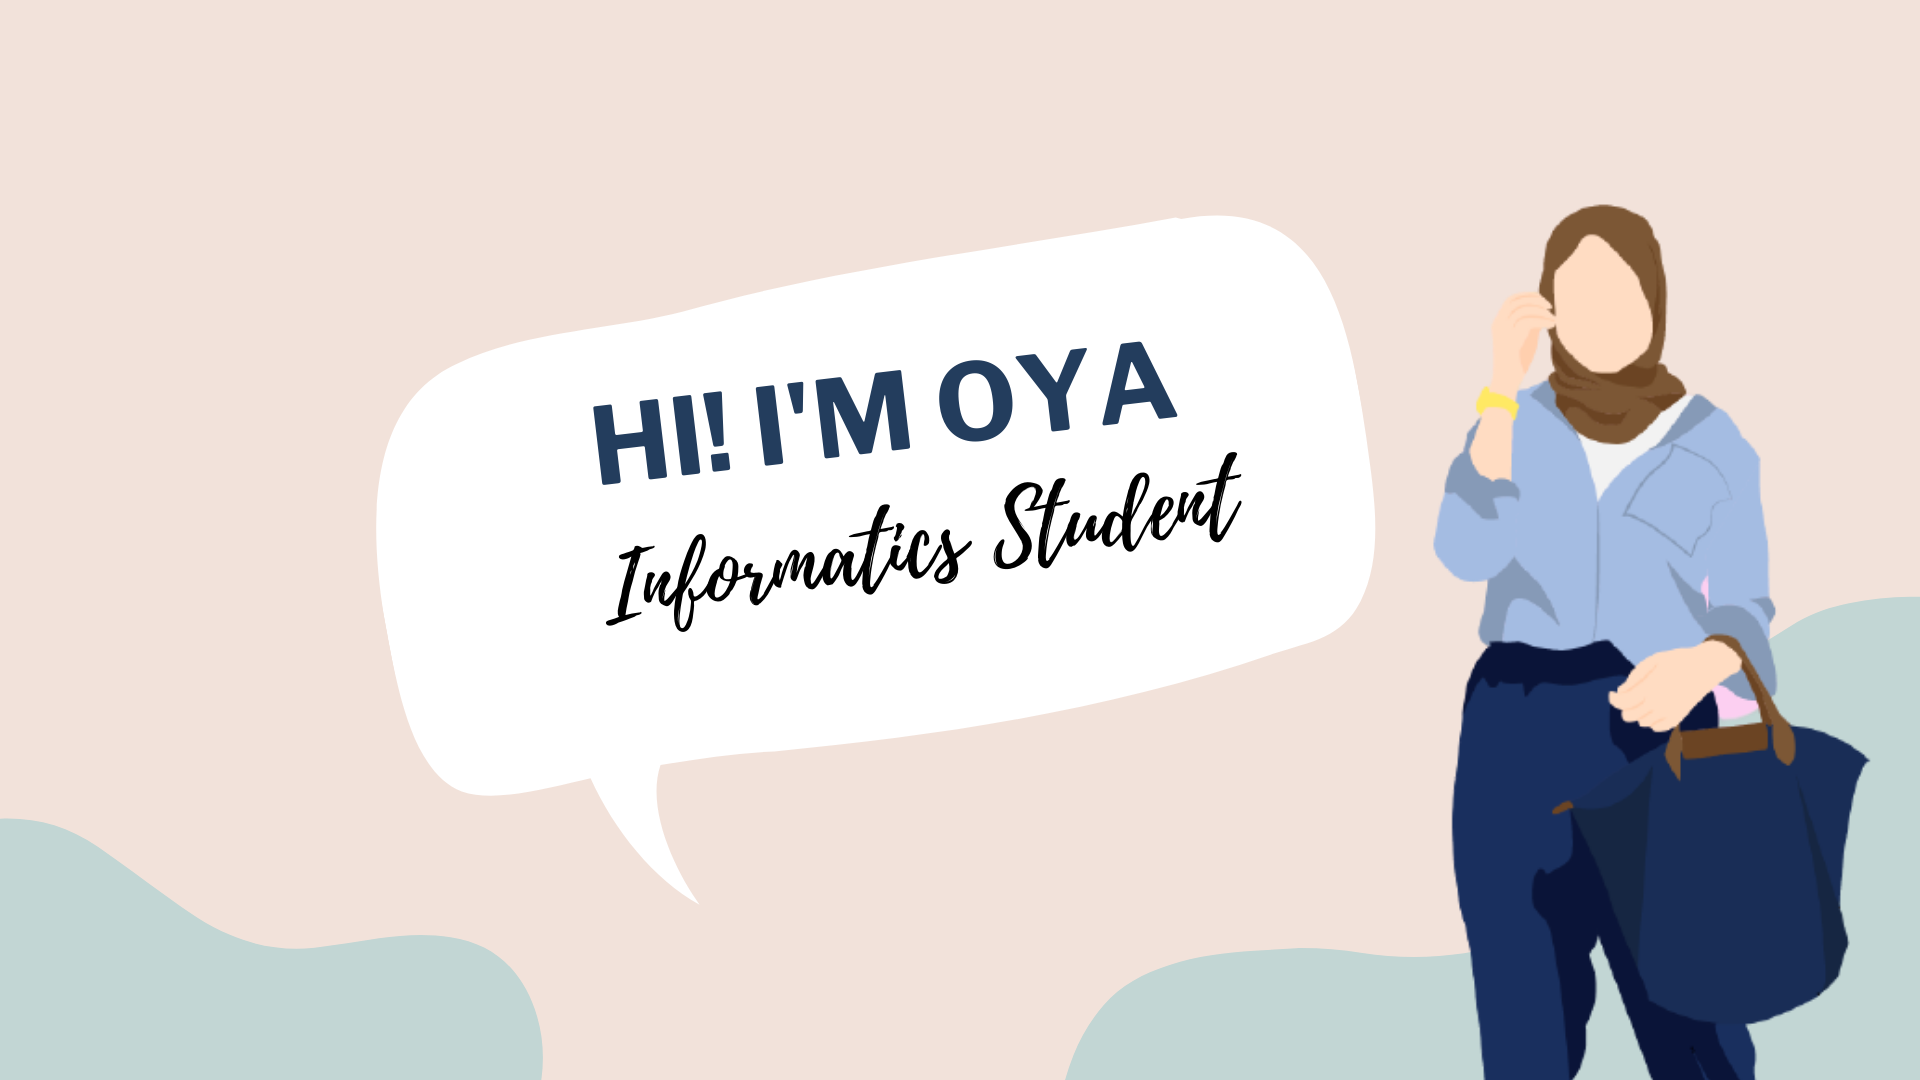
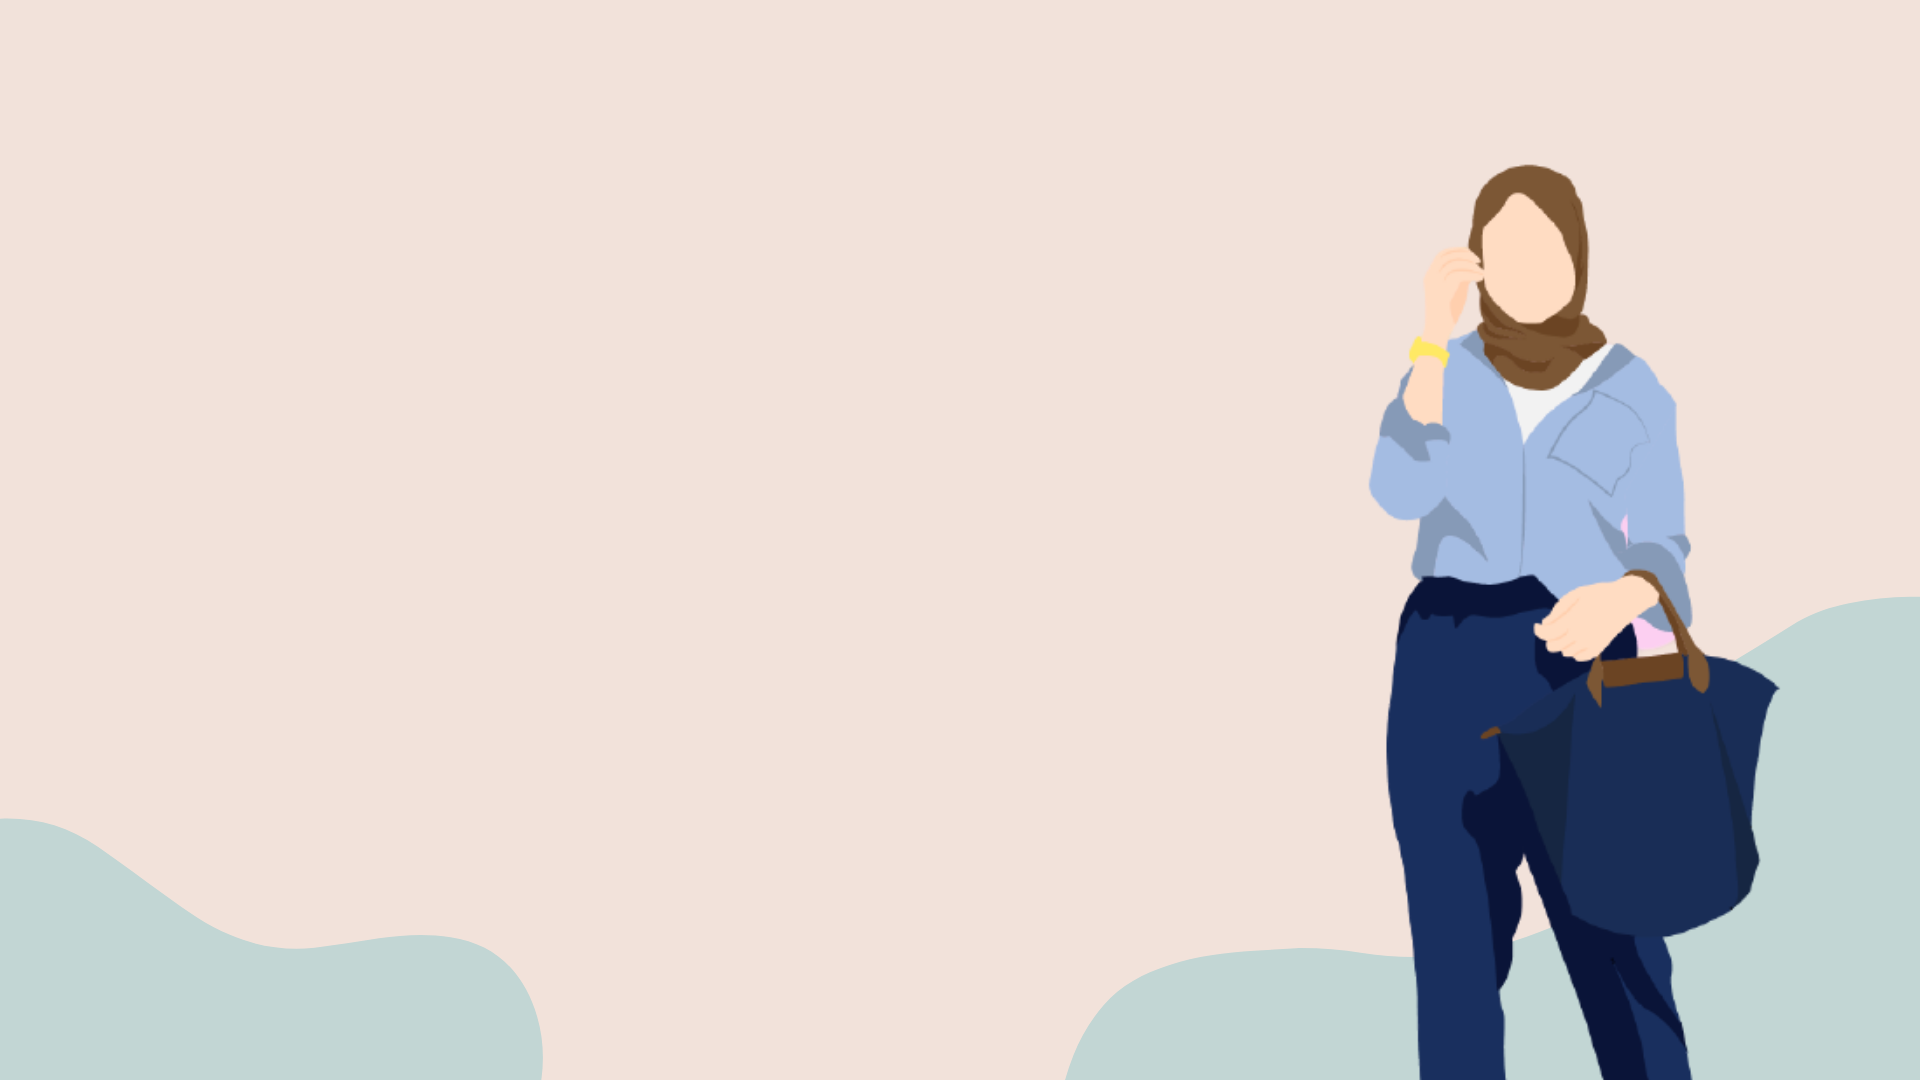
new portofolio

diff --git a/index.html b/index.html
@@ -8,6 +8,8 @@
     <link rel="stylesheet" href="style.css">
     <script src="https://kit.fontawesome.com/a076d05399.js"></script>
     <script src="https://code.jquery.com/jquery-3.5.1.min.js"></script>
+    <script src="https://cdnjs.cloudflare.com/ajax/libs/typed.js/2.0.11/typed.min.js"></script>
+    <script src="https://cdnjs.cloudflare.com/ajax/libs/waypoints/4.0.1/jquery.waypoints.min.js"></script>
     <link href="https://unpkg.com/aos@2.3.1/dist/aos.css" rel="stylesheet">
     
     <title>Auliya Daffa Isy</title>
@@ -34,10 +36,13 @@
             </div>
         </nav>
 
-    <!-- home -->
+    <!-- home-->
     <section class="home" id="home">
         <div class="max-width">
             <div class="home-content">
+                <div class="text-1"> Hi!I'm </div>
+                <div class="text-2"> Auliya Daffa Isy</div>
+                <div class="text-3">  And I'm a <span class="typing"></span></div>
             </div>
         </div>
     </section>
@@ -82,7 +87,7 @@
             <div class="box">
                 <i class="fas fa-microphone"></i>
                     <div class="text"><a href="https://drive.google.com/drive/u/0/folders/1_vC4WUiXcVSza_XS5Mf-wBlQY1hDjPaf">Master Of Ceremony</a></div>
-                        <p> am important skill to have is communication, and to have that skill we can learn by being a MC</p>
+                        <p> An important skill to have is communication, and to have that skill we can learn by being a MC</p>
             </div>
         </div>
         </section>

diff --git a/style.css b/style.css
@@ -119,7 +119,7 @@ section .title{
 }
 
   
-/* home section styling */
+/* home styling */
 .home{
     display: flex;
     background: url("images/oya.png") no-repeat center;
@@ -132,6 +132,26 @@ section .title{
 }
 .home .max-width{
     margin: auto 0 auto 30px;
+}
+.home .home-content .text-1{
+    font-size: 40px;
+    font-weight: 100;
+    color: #E9967A;
+}
+.home .home-content .text-2{
+    font-size: 75px;
+    font-weight: 600;
+    margin-left: -3px;
+    color: #E9967A;
+}
+.home .home-content .text-3{
+    font-size: 40px;
+    margin: 5px 0;
+    color: #E9967A;
+}
+.home .home-content .text-3 span{
+    color:#233d5d;
+    font-weight: 500;
 }
 .home .home-content a{
     display: inline-block;
@@ -319,12 +339,11 @@ contact h2{
     text-align: center;
 }
 #footertext{
-    color: white;
-    font-family: ubuntu;
+    font-family: 'Ubuntu', sans-serif;
     font-size: 100%;
     padding-top: 2%;
     text-align: center;
-
+    color: white;
 }
 
 /* responsive media query start */
@@ -375,6 +394,12 @@ contact h2{
         display: inline-block;
         margin: 20px 0;
         font-size: 25px;
+    }
+     .home .home-content .text-2{
+        font-size: 70px;
+    }
+    .home .home-content .text-3{
+        font-size: 35px;
     }
     .max-width{
         max-width: 930px;

diff --git a/script.js b/script.js
@@ -26,6 +26,20 @@ $(document).ready(function(){
         $('.navbar .menu').toggleClass("active");
         $('.menu-btn i').toggleClass("active");
     });
+    // typing text animation script
+    var typed = new Typed(".typing", {
+        strings: ["Informatics Undergraduate Student"],
+        typeSpeed: 100,
+        backSpeed: 60,
+        loop: true
+    });
+
+    var typed = new Typed(".typing-2", {
+        strings: ["Informatics Undergraduate Student"],
+        typeSpeed: 100,
+        backSpeed: 60,
+        loop: true
+    });
     
     // owl carousel script
     $('.carousel').owlCarousel({
